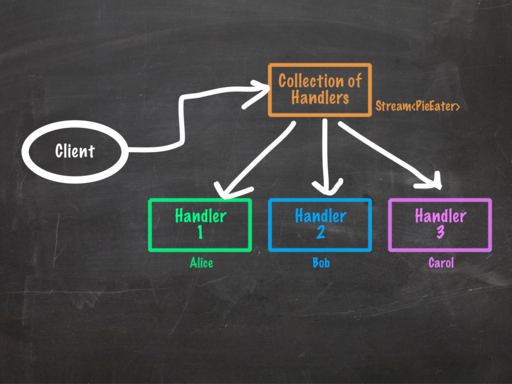
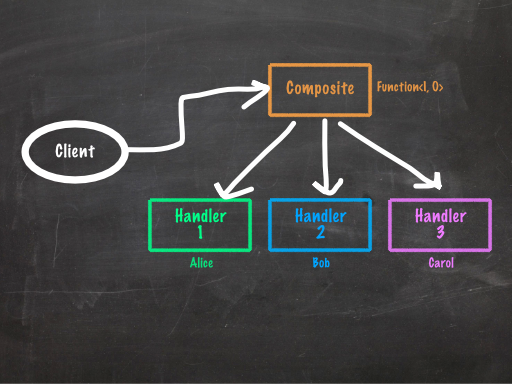
Replace the Chain of Responsiblity example with a better one.

Changed region(s): [[0.5312, 0.1875, 0.9062, 0.3125]]

diff --git a/design-patterns-in-the-21st-century.md b/design-patterns-in-the-21st-century.md
@@ -360,17 +360,20 @@ Java 8 has made adapters so much simpler that I hesitate to call them a pattern 
 
 Here's a thing you might not see a lot.
 
-    @Test public void whoAteMyPie() {
-        PieEater alice = PieEater.withFavourite(APPLE);
-        PieEater bob = PieEater.withFavourite(BLUEBERRY);
-        PieEater carol = PieEater.withFavourite(CHERRY);
+    @Test public void hungryHungryPatrons() {
+        KitchenStaff alice = new PieChef();
+        KitchenStaff bob = new DollopDistributor();
+        KitchenStaff carol = new CutleryAdder();
+        KitchenStaff dan = new Server();
 
         alice.setNext(bob);
         bob.setNext(carol);
+        carol.setNext(dan);
 
-        alice.give(blueberryPie);
+        Patron patron = new Patron();
+        alice.prepare(new UncookedPie()).forPatron(patron);
 
-        assertThat(bob, ate(blueberryPie));
+        assertThat(patron, hasPie());
     }
 
 It might look odd, but the idea is fairly common. For example, the Java Servlets framework uses the concept of a `FilterChain` to model a sequence of filters upon a request.
@@ -441,125 +444,182 @@ The Chain of Responsibility pattern is generally considered an *anti-pattern* no
 
 Let's dive a little further into how we can salvage something from all of this.
 
-Remember our pie eaters?
+Remember our hungry patron?
 
-    @Test public void whoAteMyPie() {
-        PieEater alice = PieEater.withFavourite(APPLE);
-        PieEater bob = PieEater.withFavourite(BLUEBERRY);
-        PieEater carol = PieEater.withFavourite(CHERRY);
+    @Test public void
+    hungryHungryPatrons() {
+        KitchenStaff alice = new PieChef();
+        KitchenStaff bob = new DollopDistributor();
+        KitchenStaff carol = new CutleryAdder();
+        KitchenStaff dan = new Server();
 
         alice.setNext(bob);
         bob.setNext(carol);
+        carol.setNext(dan);
 
-        alice.give(blueberryPie);
+        Patron patron = new Patron();
+        alice.prepare(new UncookedPie()).forPatron(patron);
 
-        assertThat(bob, ate(blueberryPie));
+        assertThat(patron, hasPie());
     }
 
 That assertion is using [Hamcrest matchers](https://code.google.com/p/hamcrest/wiki/Tutorial#Sugar), by the way. Check them out if you're not too familiar with them. They're amazing.
 
 #### Step 1: Stop mutating.
 
-Instead of setting the next person later, we'll construct each person with the next.
+There are two cases of mutation here: each member of staff has the "next" member set later, and the patrons themselves are mutated. Instead of setting the next member of staff later, we'll construct each one with the next. And as for the patron, we'll start off with a `HungryPatron` and have them return a new instance of themselves upon feeding.
 
-    @Test public void whoAteMyPie() {
-        PieEater carol = PieEater.atTheEnd()
-            .withFavourite(CHERRY);
-        PieEater bob = PieEater.before(carol)
-            .withFavourite(BLUEBERRY);
-        PieEater alice = PieEater.before(bob)
-            .withFavourite(APPLE);
+    @Test public void
+    hungryHungryPatrons() {
+        KitchenStaff dan = new Server();
+        KitchenStaff carol = new CutleryAdder(dan);
+        KitchenStaff bob = new DollopDistributor(carol);
+        KitchenStaff alice = new PieChef(bob);
 
-        alice.give(blueberryPie);
+        Patron hungryPatron = new HungryPatron();
+        Patron happyPatron = alice.prepare(new UncookedPie()).forPatron(hungryPatron);
 
-        assertThat(bob, ate(blueberryPie));
+        assertThat(happyPatron, hasPie());
     }
 
-This hasn't changed much, unfortunately. It's still very confusing why we give the pie to Alice, not anyone else, and we could still get things in the wrong order or ask the wrong person. Giving it Carol would lead to a complete dead end.
+This hasn't changed much, unfortunately. It's still very confusing why we giving the pie to Alice results in the patron receiving it, and we could still get things in the wrong order or ask the wrong person to do something.
 
-#### Step 2: Separate behaviours.
+#### Step 2: Make it type-safe.
 
-`PieEater` does two things: delegate to the next person and identify pie. Let's split that up into two different concepts. We'll have a type, `Chain`, which handles what's next.
+Part of the problem with the ordering is that even though Alice gives the next person a `CookedPie`, we could tell her to give it to anyone, resulting in a `ClassCastException` or something equally fun. By parameterising the types, we can avoid this, ensuring that both the input and output types are correct.
 
-    @Test public void whoAteMyPie() {
-        Chain<PieEater> carol
-            = Chain.endingWith(PieEater.withFavourite(CHERRY));
-        Chain<PieEater> bob
-            = Chain.from(PieEater.withFavourite(BLUEBERRY))
-                   .to(carol);
-        Chain<PieEater> alice
-            = Chain.from(PieEater.withFavourite(APPLE))
-                   .to(bob);
+    @Test public void
+    hungryHungryPatrons() {
+        KitchenStaff<WithCutlery<Meal>> dan = new Server();
+        KitchenStaff<Meal> carol = new CutleryAdder(dan);
+        KitchenStaff<CookedPie> bob = new DollopDistributor(carol);
+        KitchenStaff<UncookedPie> alice = new PieChef(bob);
 
-        alice.give(blueberryPie);
+        Patron hungryPatron = new HungryPatron();
+        Patron happyPatron = alice.prepare(new UncookedPie()).forPatron(hungryPatron);
 
-        assertThat(bob, ate(blueberryPie));
+        assertThat(happyPatron, hasPie());
     }
 
-We now have two distinct concepts:
+Though you can't see it here, `PieChef`'s constructor now takes a `KitchenStaff<CookedPie>` instead of just a `KitchenStaff`.
 
-  * The pie eater, who eats pies, and
-  * the `Chain`, which gives pies to pie eaters.
+#### Step 3: Separate behaviours.
 
-#### Step 3: Split the domain from the infrastructure.
+`KitchenStaff` does two things: prepare food, but also hand over the food to the next person. Let's split that up into two different concepts. We'll construct an instance of `KitchenStaff`, then tell them who to delegate to next.
 
-The `Chain` type still knows too much about pie eating. I want something generic that can be detached entirely from our domain objects. Let's keep it away from our pie eaters.
+    @Test public void
+    hungryHungryPatrons() {
+        KitchenStaff<WithCutlery<Meal>, Serving> dan = new Server();
+        KitchenStaff<Meal, Serving> carol = new CutleryAdder().then(dan);
+        KitchenStaff<CookedPie, Serving> bob = new DollopDistributor().then(carol);
+        KitchenStaff<UncookedPie, Serving> alice = new PieChef().then(bob);
 
-    @Test public void whoAteMyPie() {
-        PieEater alice = PieEater.withFavourite(APPLE);
-        PieEater bob = PieEater.withFavourite(BLUEBERRY);
-        PieEater carol = PieEater.withFavourite(CHERRY);
+        Patron hungryPatron = new HungryPatron();
+        Patron happyPatron = alice.prepare(new UncookedPie()).forPatron(hungryPatron);
 
-        Chain<PieEater> pieEaters
-            = Chain.from(alice).to(Chain.from(bob).to(Chain.endingWith(carol)));
-
-        pieEaters.find(person -> person.loves(BLUEBERRY))
-                 .give(blueberryPie);
-
-        assertThat(bob, ate(blueberryPie));
+        assertThat(happyPatron, hasPie());
     }
 
-Note that this version of the `Chain` is generic by nature, and so doesn't know anything about the object, `PieEater`. This means that when we do things with it, we have to give it more information on its contents so it can do its job. We do this by providing a lambda to the `find` method which tells it *how* to find the culprit. In essence, instead of the behaviour being *baked in* (pun totally intended) to the `PieEater` or `Chain` types, we extract it out.
+In this situation, `then` doesn't modify the object directly, but instead returns a new instance of `KitchenStaff` who knows to pass it on. It looks something like this:
 
-We now have three distinct concepts:
-  * The pie eater, who eats pies, and
-  * the `Chain`, which is a piece of infrastructure that lets us find things, and
-  * the operation passed to `find`, described in terms of the `loves` method.
+    private static interface KitchenStaff<I, O> {
+        O prepare(I input);
 
-Oh, and the pie eaters are back in order now. Whew. That was starting to upset me.
+        default <Next> KitchenStaff<I, Next> then(KitchenStaff<O, Next> next) {
+            return input -> {
+                O output = prepare(input);
+                return next.prepare(output);
+            };
+        }
+    }
 
-#### Step 4: Identify reusable infrastructure.
+This has had the side effect of making sure we return a value rather than operating purely on side effects. By doing this, we can ensure that we *always* pass on the value. In situations where we may not want to continue, we can return an `Optional<T>` value, which can contain either something (`Optional.of(value)`) or nothing (`Optional.empty()`).
 
-That `Chain` type looks awfully familiar at this point.
+#### Step 4: Split the domain from the infrastructure.
+
+Now that we have separated the chaining from the construction of the `KitchenStaff`, we can separate the two. `alice`, `bob` and friends are useful objects to know about in their own right, and it's pretty confusing to see them only as part of the chain. Let's leave the chaining until later.
+
+    @Test public void
+    hungryHungryPatrons() {
+        KitchenStaff<UncookedPie, CookedPie> alice = new PieChef();
+        KitchenStaff<CookedPie, Meal> bob = new DollopDistributor();
+        KitchenStaff<Meal, WithCutlery<Meal>> carol = new CutleryAdder();
+        KitchenStaff<WithCutlery<Meal>, Serving> dan = new Server();
+
+        KitchenStaff<UncookedPie, Serving> staff = alice.then(bob).then(carol).then(dan);
+
+        Patron hungryPatron = new HungryPatron();
+        Patron happyPatron = staff(new UncookedPie()).forPatron(hungryPatron);
+
+        assertThat(happyPatron, hasPie());
+    }
+
+So now we have a composite object, `staff`, which embodies the chain of operations. This allows us to see the individuals as part of it as separate entities.
+
+#### Step 5: Identify redundant infrastructure.
+
+That `KitchenStaff` type looks awfully familiar at this point.
 
 Perhaps it looks something like this:
 
-    (cons alice (cons bob (cons carol nil)))
+    @FunctionalInterface
+    public interface Function<T, R> {
+        R apply(T t);
 
-Oh, look, [we're writing Lisp](http://en.wikipedia.org/wiki/Cons).
+        ...
 
-Specifically, we're using a construct very similar to Lisp's immutable linked list data structure. Which makes me wonder: can we use our own lists here, or something similar?
+        default <V> Function<T, V> andThen(Function<? super R, ? extends V> after) {
+            Objects.requireNonNull(after);
+            return (T t) -> after.apply(apply(t));
+        }
 
-    @Test public void whoAteMyPie() {
-        PieEater alice = PieEater.withFavourite(APPLE);
-        PieEater bob = PieEater.withFavourite(BLUEBERRY);
-        PieEater carol = PieEater.withFavourite(CHERRY);
-
-        Stream<PieEater> pieEaters = Stream.of(alice, bob, carol);
-
-        Optional<PieEater> greedyOne
-            = pieEaters.findAny(pieEater -> pieEater.ate(BLACKBERRY));
-        assert greedyOne.get() == bob;
+        ...
     }
 
-A [`Stream`](http://docs.oracle.com/javase/8/docs/api/java/util/stream/Stream.html), in Java 8, is a single-use sequence of elements supporting aggregate operations. In this case, we're only using one of its operations, `findAny`, but it has many more capabilities. It's *not* a list, but in our case, we can construct it from a list and then use it to discover information about it.
+Oh, look, it's a function! And `then` is simply function composition. Our `KitchenStaff` type appears to be pretty much a subset of the `Function` type, so why not just use that instead?
+
+    @Test public void
+    hungryHungryPatrons() {
+        Function<UncookedPie, CookedPie> alice = new PieChef();
+        Function<CookedPie, Meal> bob = new DollopDistributor();
+        Function<Meal, WithCutlery<Meal>> carol = new CutleryAdder();
+        Function<WithCutlery<Meal>, Serving> dan = new Server();
+
+        Function<UncookedPie, Serving> staff = alice.andThen(bob).andThen(carol).andThen(dan);
+
+        Patron hungryPatron = new HungryPatron();
+        Patron happyPatron = staff.apply(new UncookedPie()).forPatron(hungryPatron);
+
+        assertThat(happyPatron, hasPie());
+    }
+
+#### Step 6: Optionally replace classes with lambdas and method references.
+
+Sometimes you really don't need a full class. In this case, the implementation is simple enough that we can just use method references instead.
+
+    @Test public void
+    hungryHungryPatrons() {
+        Function<UncookedPie, CookedPie> alice = UncookedPie::cook;
+        Function<CookedPie, Meal> bob = CookedPie::addCream;
+        Function<Meal, WithCutlery<Meal>> carol = WithCutlery::new;
+        Function<WithCutlery<Meal>, Serving> dan = Serving::new;
+
+        Function<UncookedPie, Serving> staff = alice.andThen(bob).andThen(carol).andThen(dan);
+
+        Patron hungryPatron = new HungryPatron();
+        Patron happyPatron = staff.apply(new UncookedPie()).forPatron(hungryPatron);
+
+        assertThat(happyPatron, hasPie());
+    }
+
+This drastically cuts down on boilerplate and lets us see what's actually going on.
 
 Our new structure is quite different—far more so than the earlier examples.
 
 ![Updated Chain of Responsibility pattern UML diagram](assets/images/design-patterns-in-the-21st-century/chain-of-responsibility-pattern-uml-functional.png)
 {: .image}
 
-By decoupling the business domain (in this case, pie eating) from the infrastructure (traversing a list of elements), we're able to come up with much cleaner code. This was only possible because we were able to tell the infrastructure something about our domain—i.e. how to detect who ate all the pies—by passing behaviour around in the form of a lambda expression.
+By decoupling the business domain (in this case, pie preparation) from the infrastructure (composed functions), we're able to come up with much cleaner, terser code. Our behavioural classes (focusing around preparation) disappeared, leaving only the domain objects themselves (`UncookedPie`, for example) and the methods on them (e.g. `cook`), which is where the behaviour should probably live anyway.
 
 ## So… what's your point?
 
